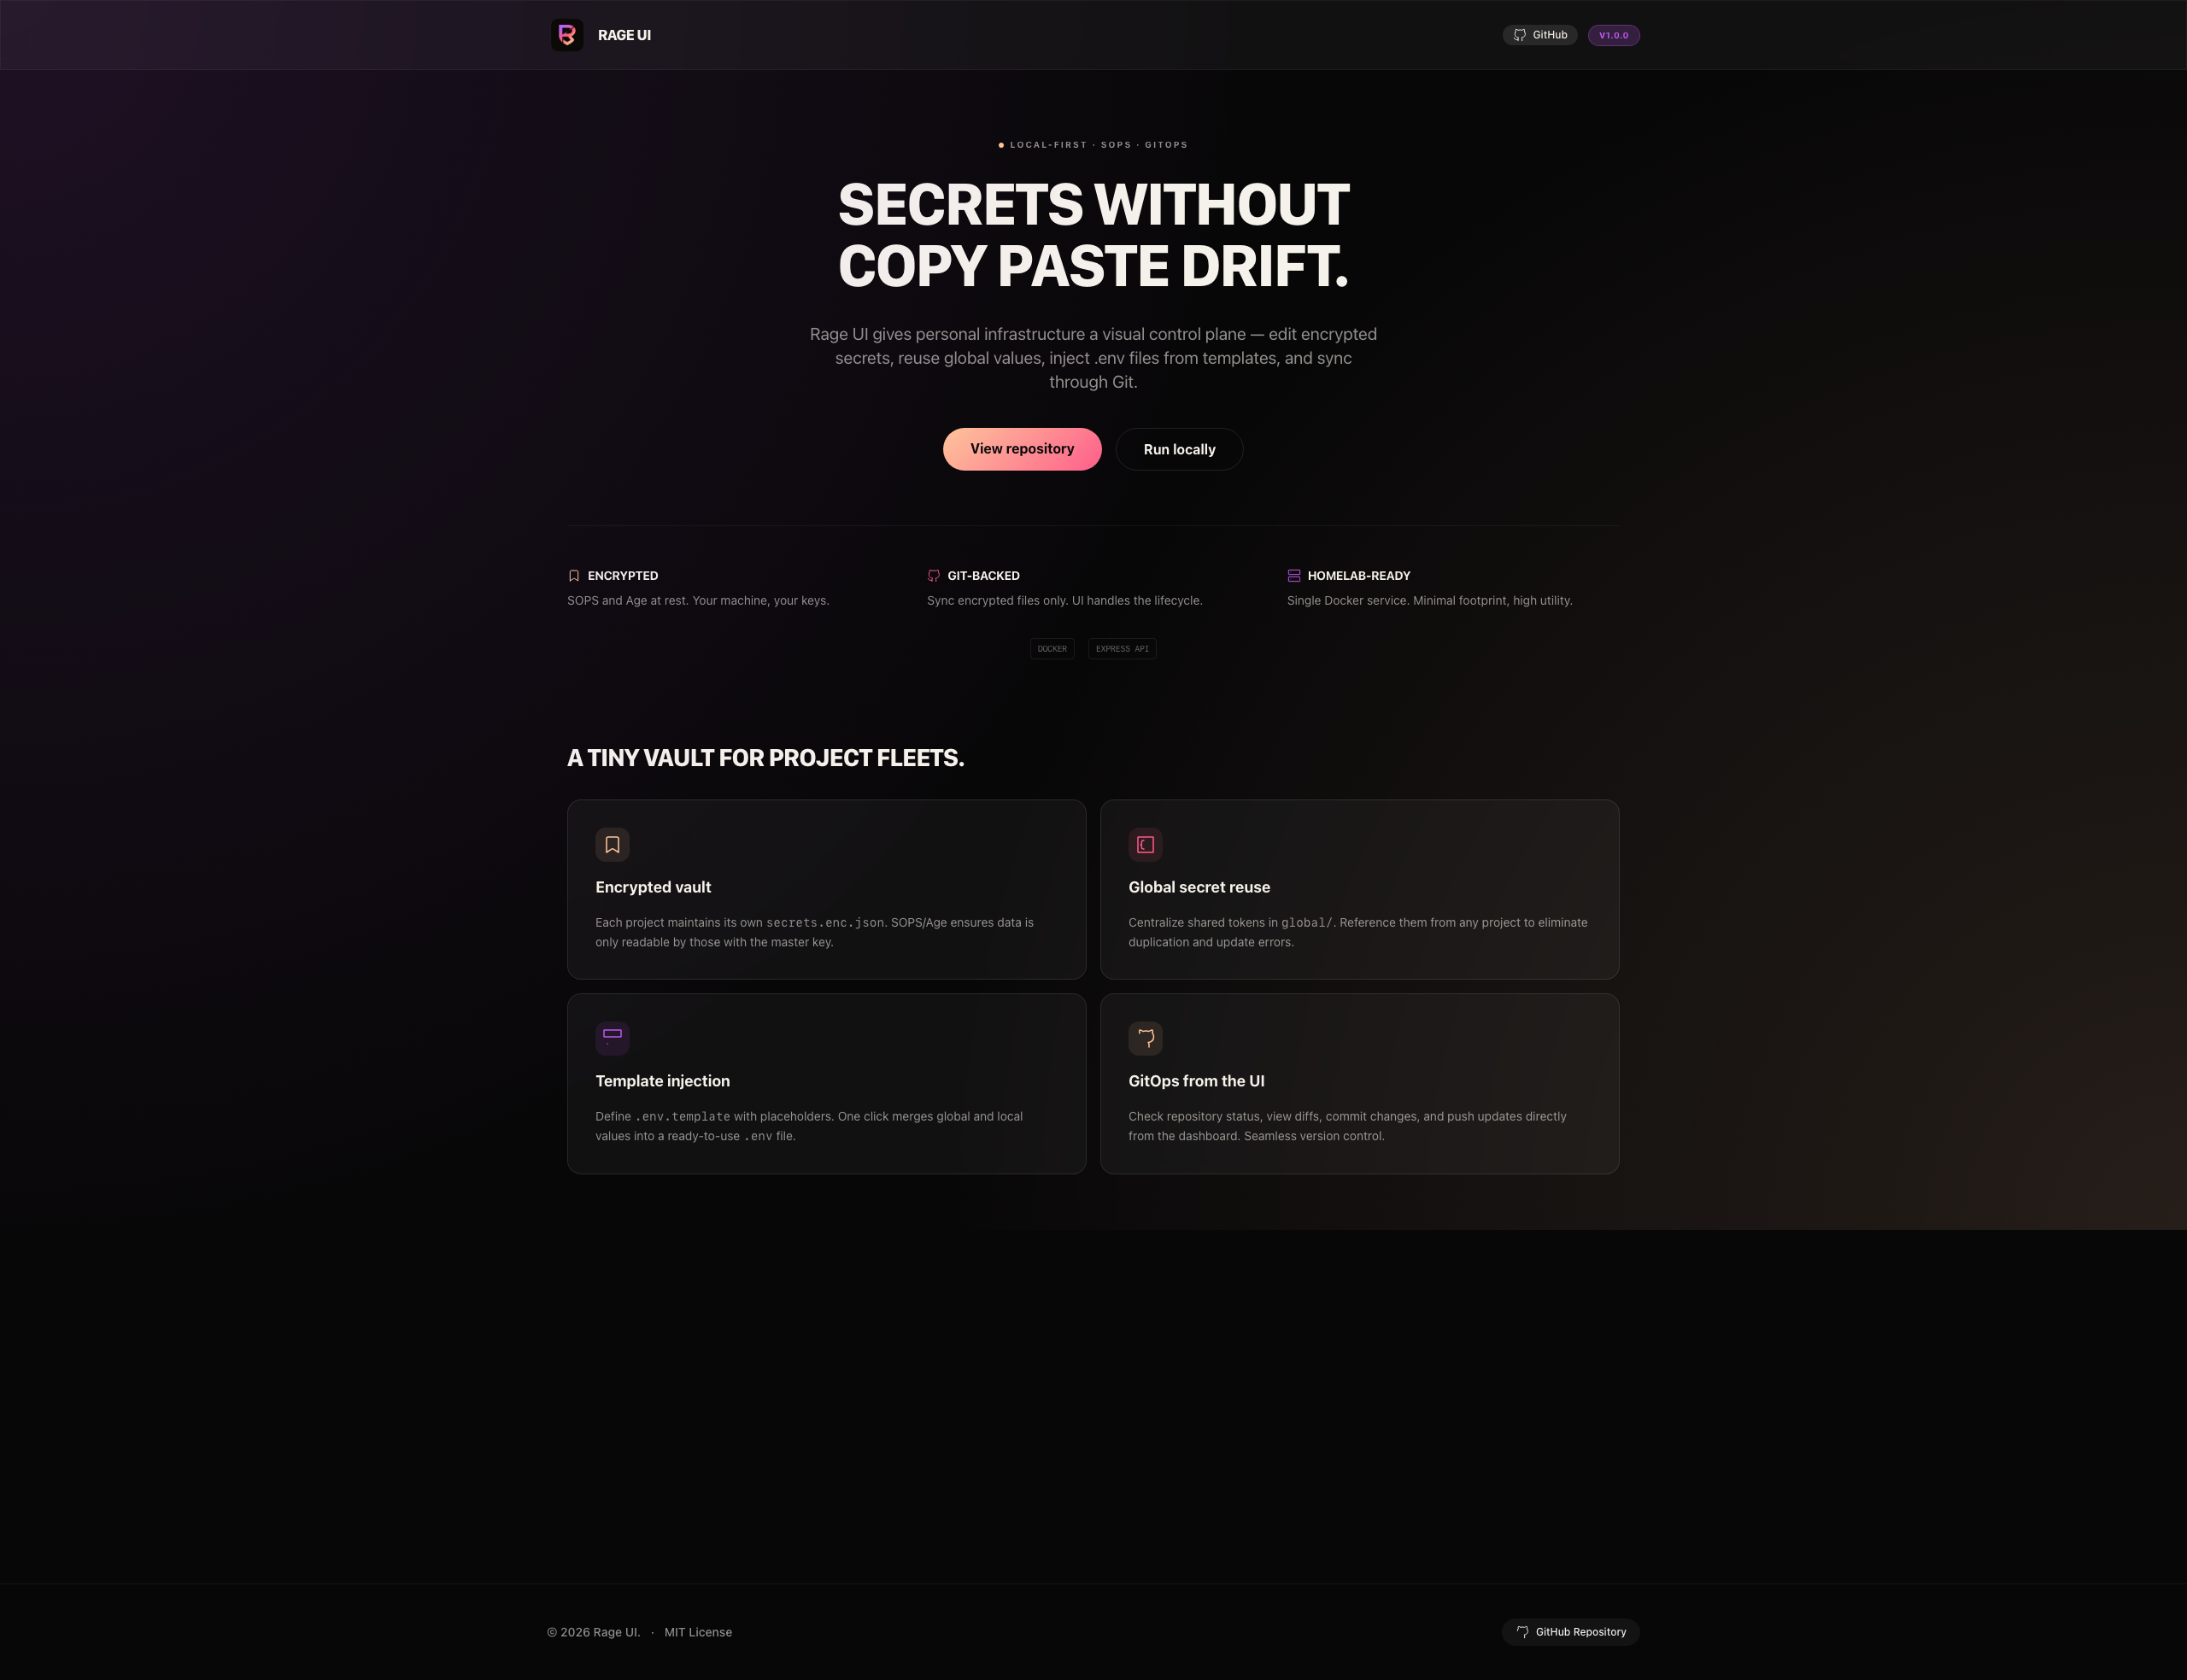
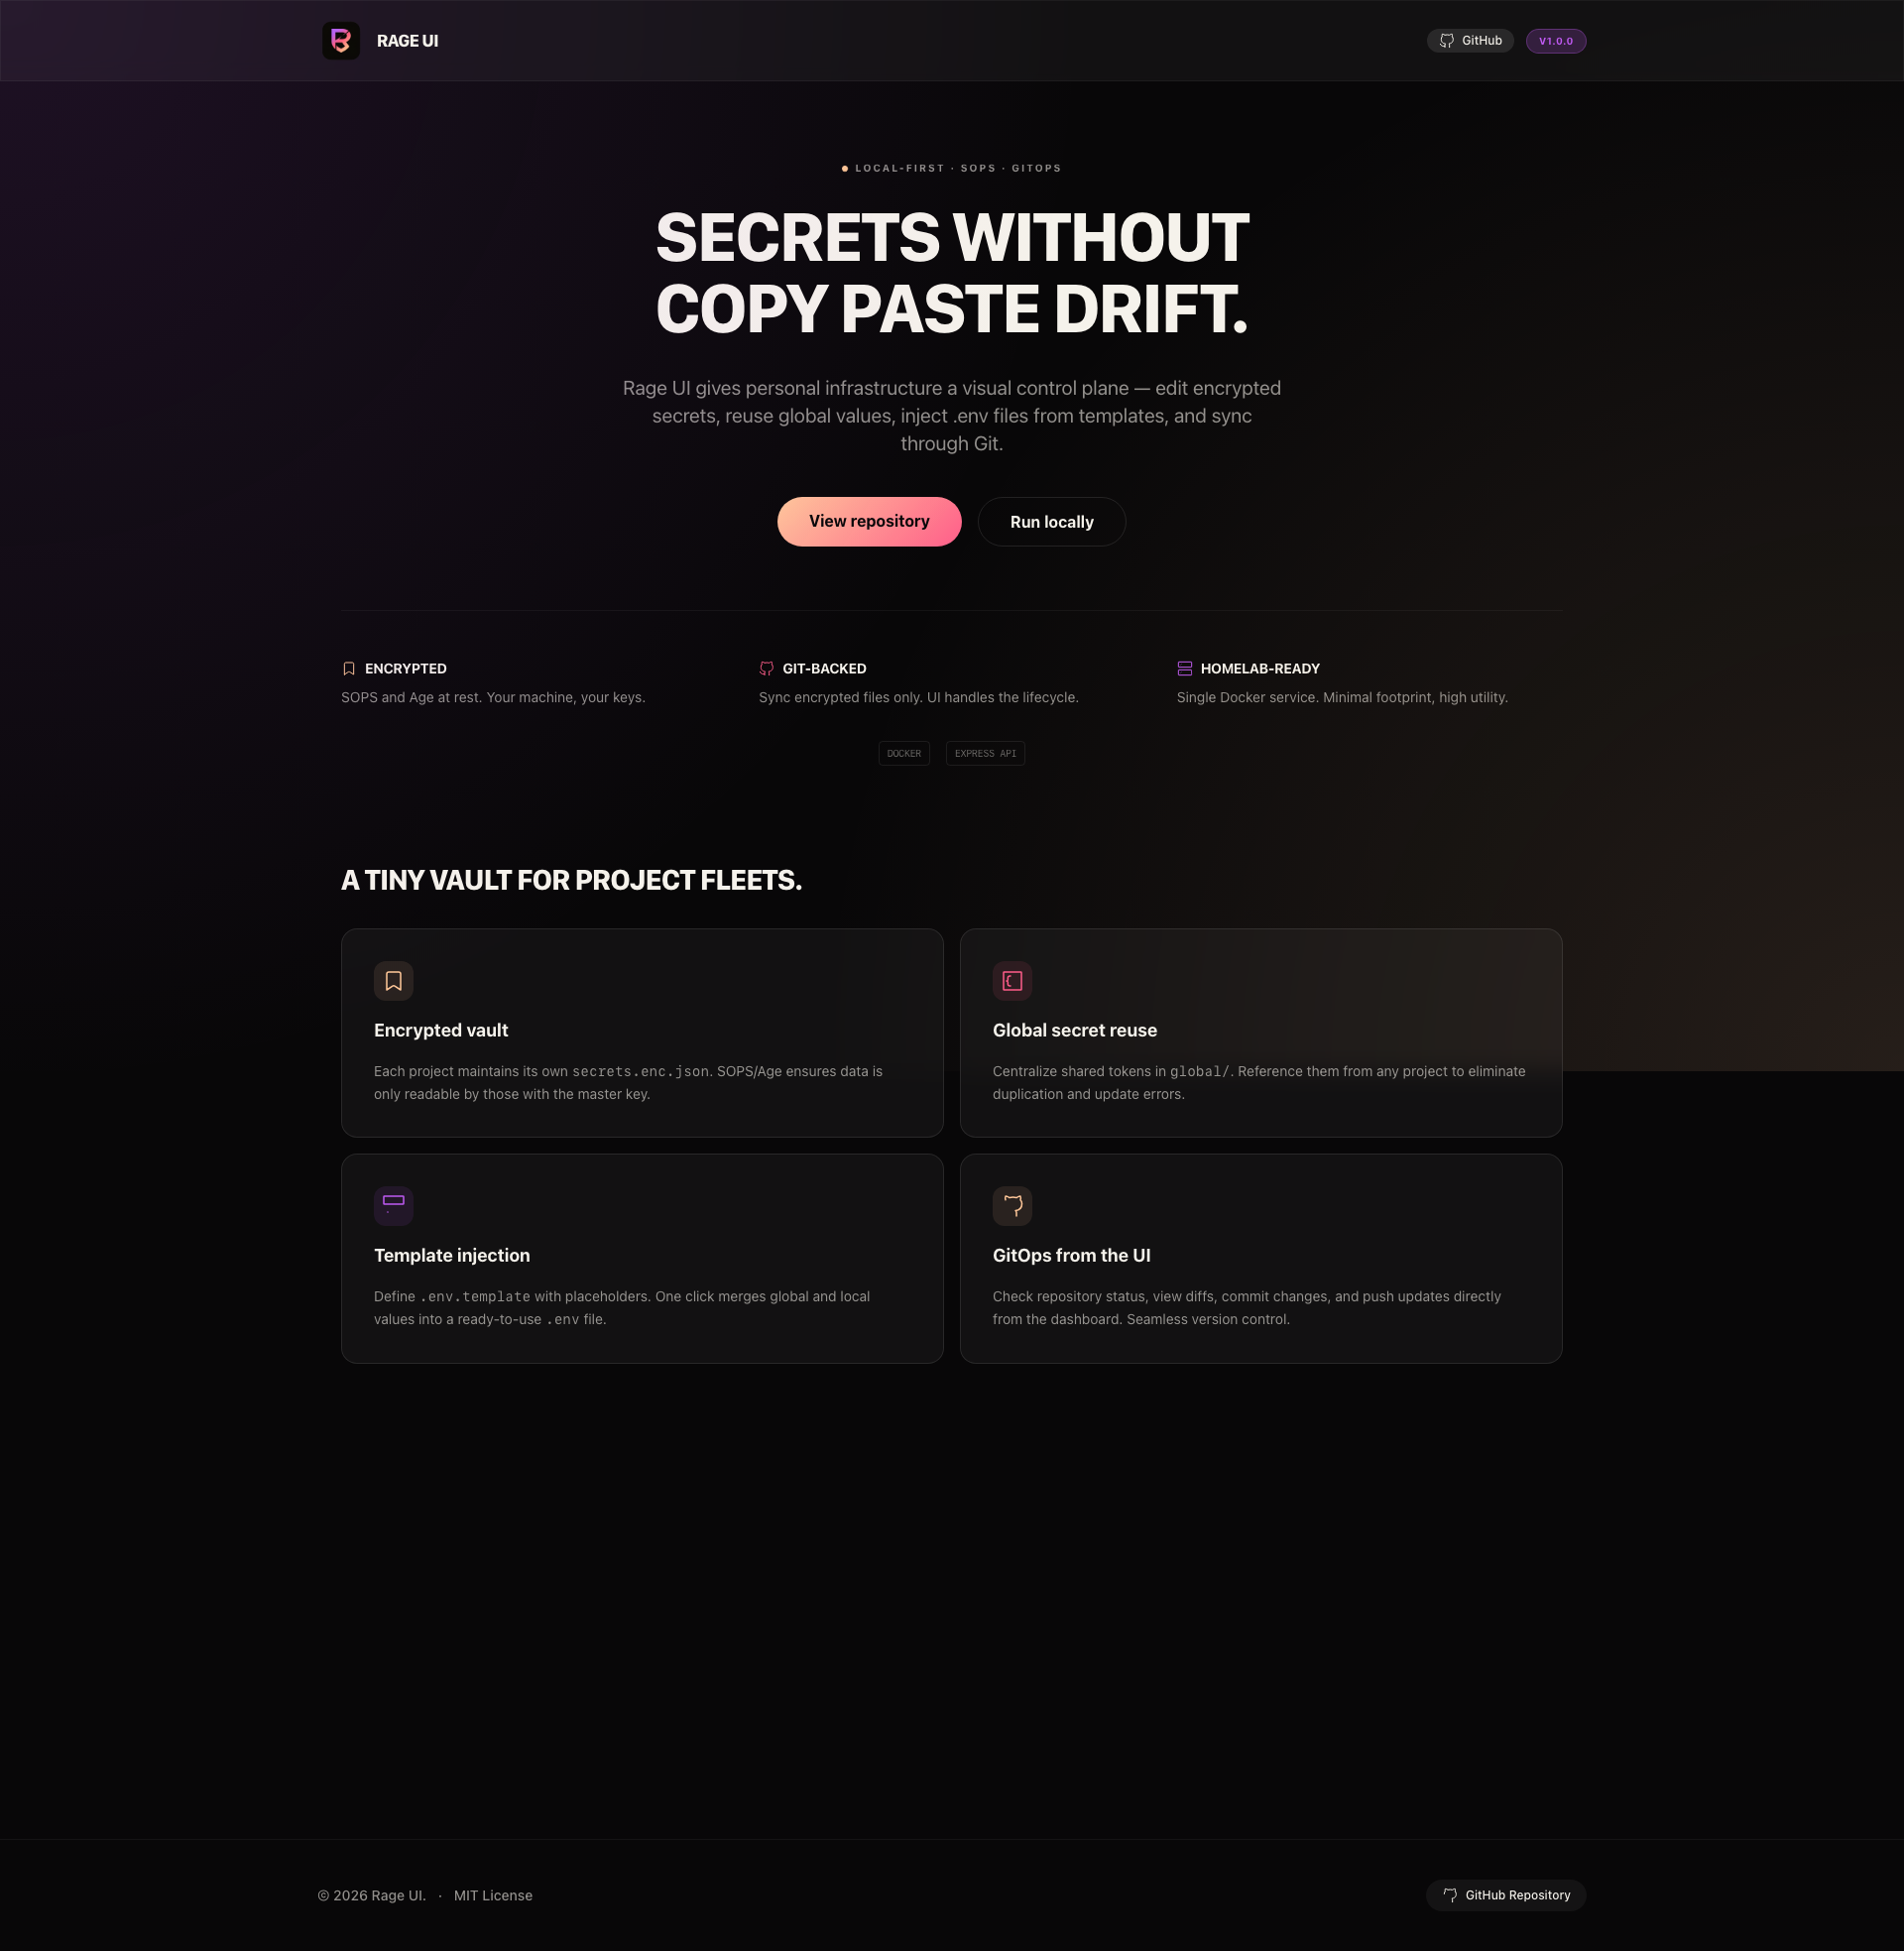
screenshot: 1080p (1920px) 16:9 capture

diff --git a/e2e/tests/screenshot.spec.ts b/e2e/tests/screenshot.spec.ts
@@ -1,7 +1,7 @@
 import { test } from '@playwright/test';
 
 test('capture landing page screenshot', async ({ page }) => {
-  await page.setViewportSize({ width: 2560, height: 1440 });
+  await page.setViewportSize({ width: 1920, height: 1080 });
   await page.goto('https://sofian-bll.github.io/Rage-UI/', { waitUntil: 'networkidle' });
   await page.waitForTimeout(1500);
   await page.screenshot({